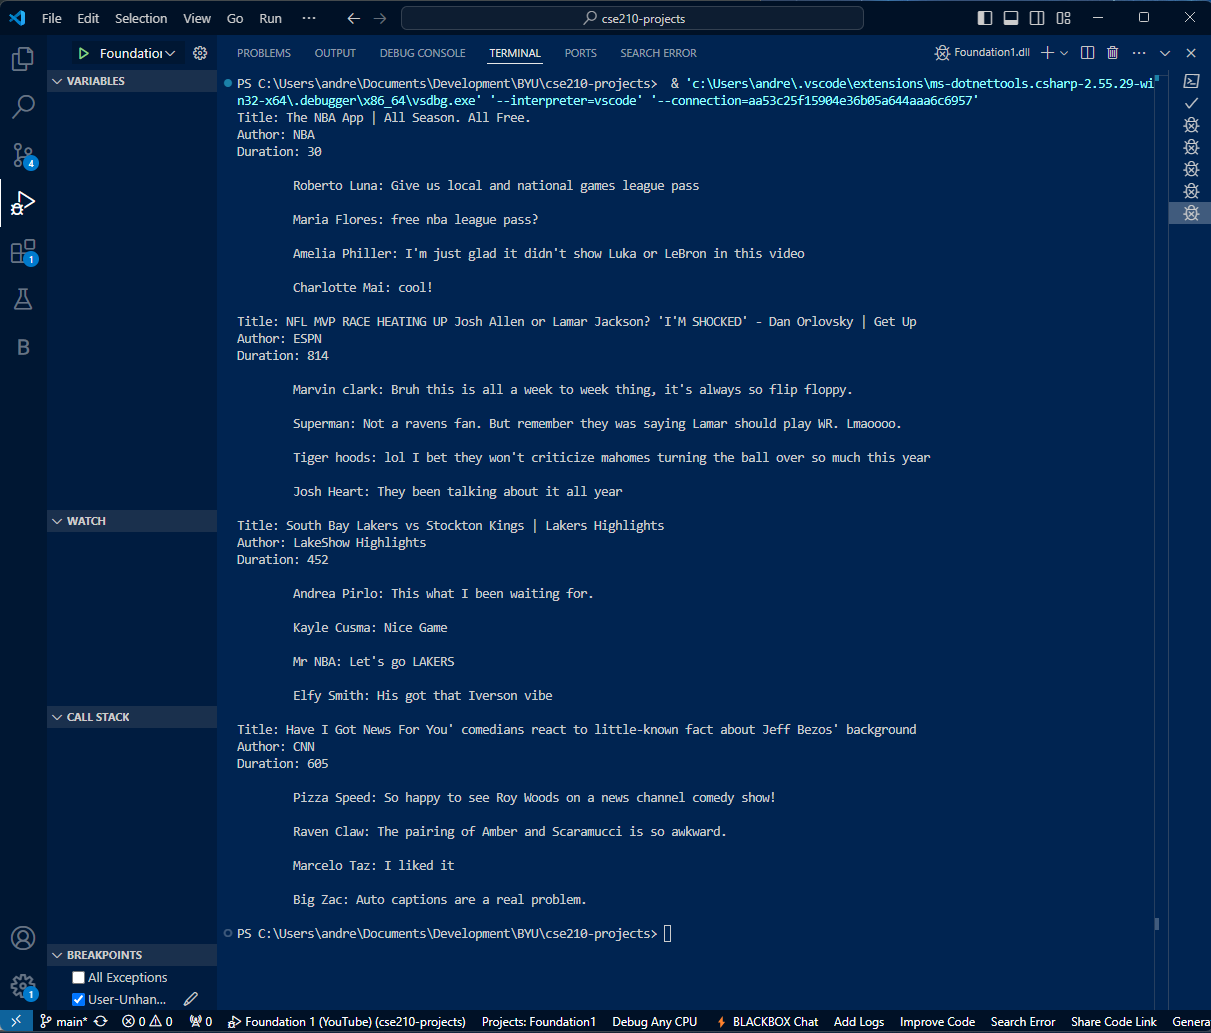
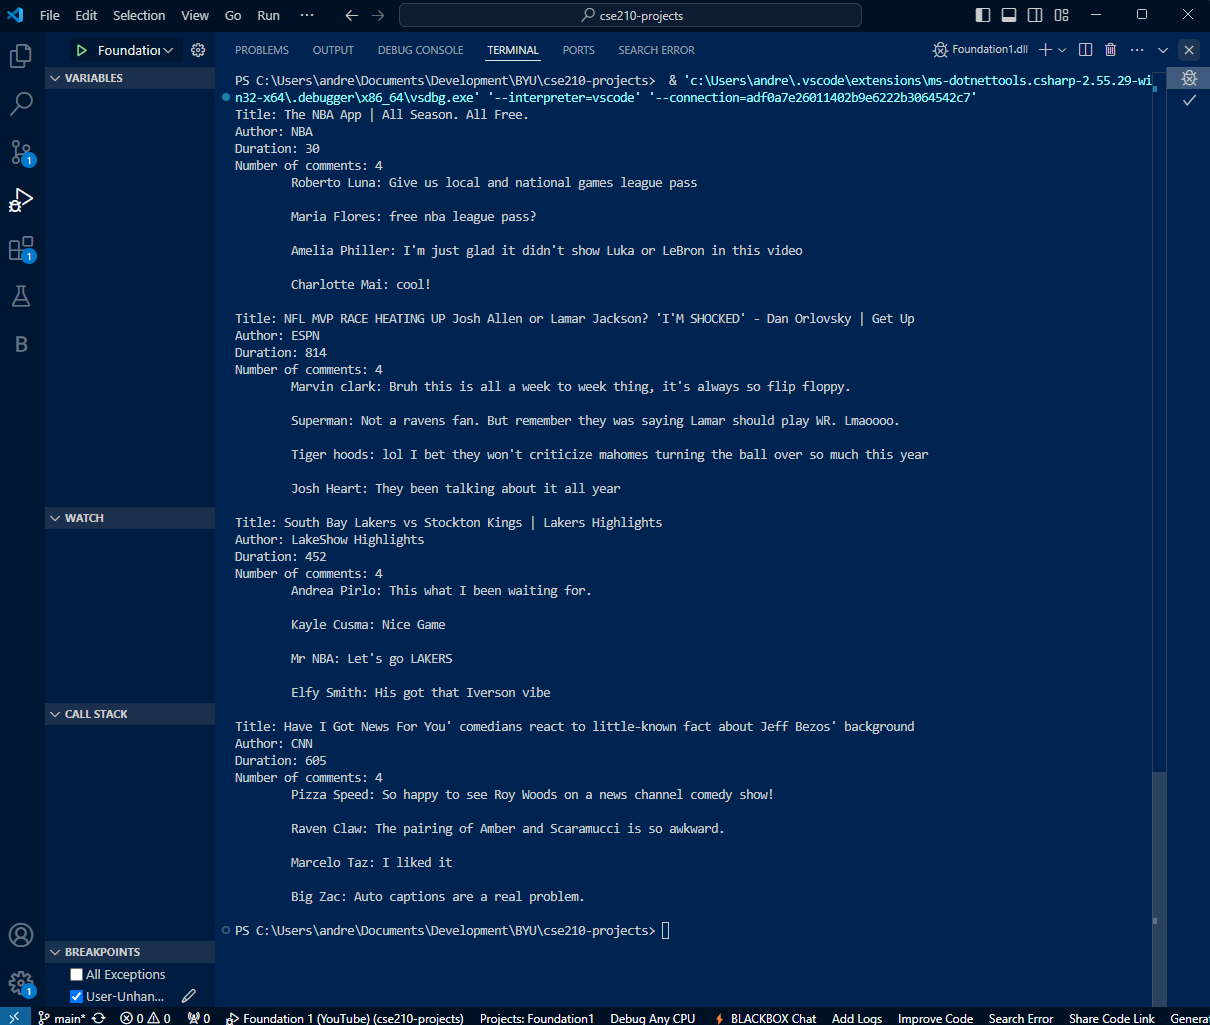
adding number of comments

diff --git a/foundation/Foundation1/Video.cs b/foundation/Foundation1/Video.cs
@@ -1,3 +1,4 @@
+
 class Video
 {
     private string _title;
@@ -12,7 +13,7 @@ class Video
         _length = length;
         _comments = new List<Comment>();
     }
-    public int GetNumberOfComments(){
+    private int GetNumberOfComments(){
         return _comments.Count;
     }
 
@@ -26,8 +27,9 @@ class Video
         Console.WriteLine($"Title: {_title}");
         Console.WriteLine($"Author: {_author}");
         Console.WriteLine($"Duration: {_length}");
-        Console.WriteLine();
+        Console.WriteLine($"Number of comments: {GetNumberOfComments()}");
     }
+
     public void ListComments()
     {
         foreach (Comment comment in _comments)
